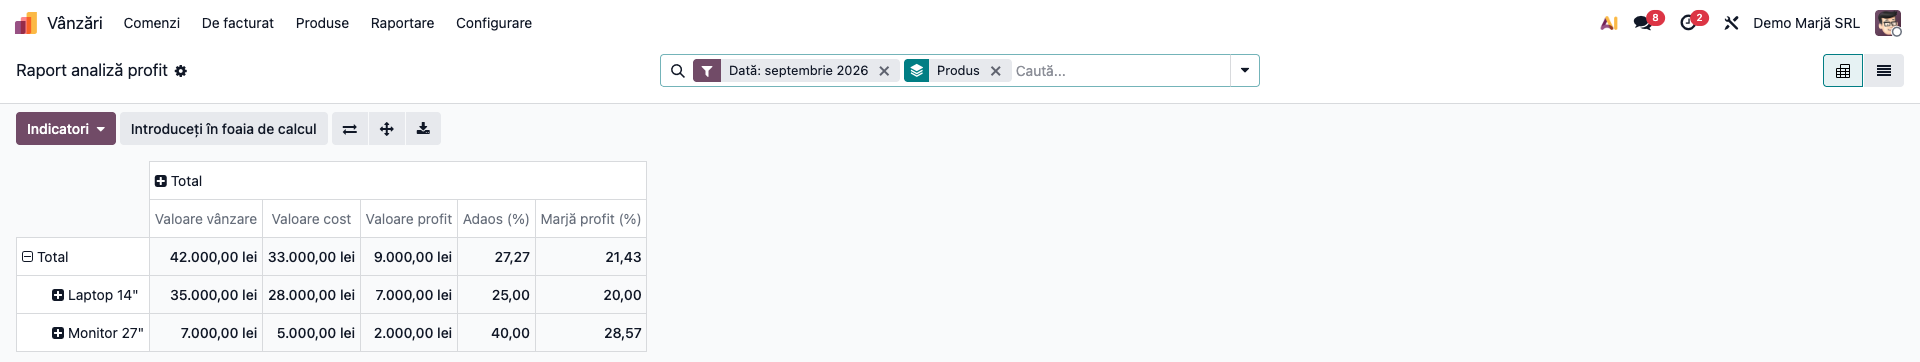
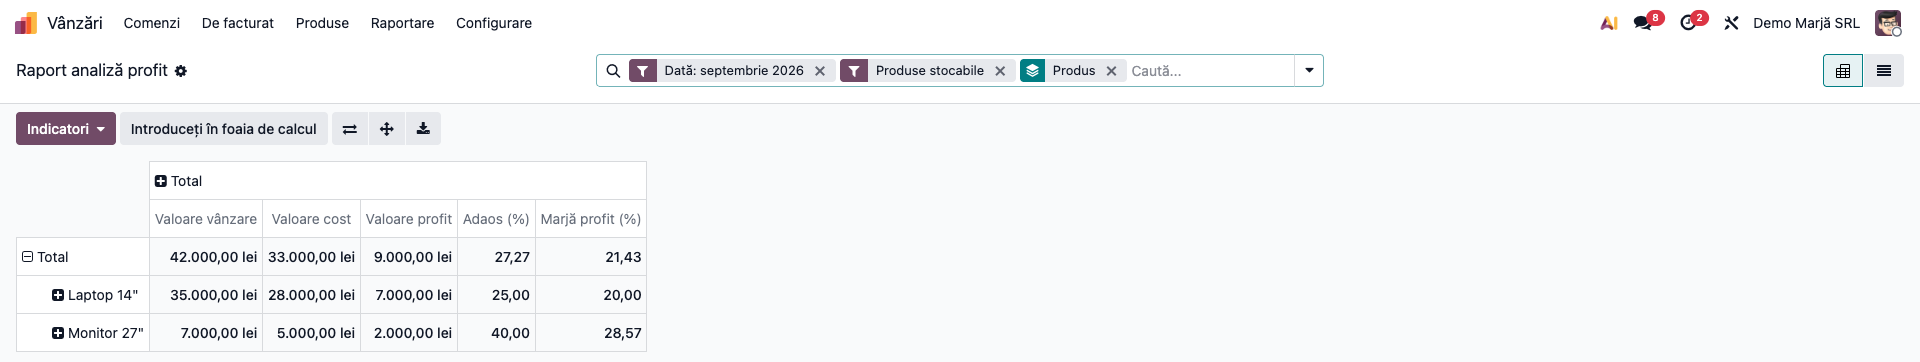
[IMP] deltatech_sale_margin: review of #3860 — POS history and test, consultant sheets, translations
- deltatech_sale_margin_pos: HISTORY entry for 19.0.1.0.1 and a test that the
  POS rows give is_storable for the default filter
- consultant sheets: the Storable Products filter, the purchase price per
  product unit in the report, the wizard converting the product cost to the
  line unit, new checks; the POS sheet removes the filter for the demo products
- ro.po: Storable Products / Track Inventory
- screenshots 04 and 05 regenerated (new filter in the search bar)

Assisted-by: Claude Opus 5.5

Changed region(s): [[0.3125, 0.1519, 0.625, 0.2431], [0.6562, 0.2127, 0.6875, 0.2431]]

diff --git a/deltatech_sale_margin_pos/tests/test_sale_margin_report_pos.py b/deltatech_sale_margin_pos/tests/test_sale_margin_report_pos.py
@@ -51,6 +51,17 @@ class TestSaleMarginReportPos(TestPoSCommon):
         self.assertEqual(row.payment_state, "paid")
         self.assertEqual(row.user_id, order.user_id)
 
+    def test_storable_column(self):
+        """The POS rows say whether the product is storable, for the default filter of the report."""
+        order = self._order(1)
+        self.assertTrue(self.product.is_storable)
+        row = self._rows(pos_order_id=order.id, is_storable=True)
+        self.assertEqual(len(row), 1)
+        self.product.is_storable = False
+        self.env.flush_all()
+        self.assertFalse(self._rows(pos_order_id=order.id, is_storable=True))
+        self.assertEqual(len(self._rows(pos_order_id=order.id, is_storable=False)), 1)
+
     def test_invoiced_order_not_counted_twice(self):
         order = self._order(1, is_invoiced=True)
         self.assertTrue(order.account_move)

diff --git a/deltatech_sale_margin/readme/FISA_CONSULTANT.md b/deltatech_sale_margin/readme/FISA_CONSULTANT.md
@@ -90,7 +90,10 @@ Ambele sunt aduse în **moneda** și în **unitatea de măsură ale liniei** —
 unitatea e esențială.
 
 Pentru costul pe factură și raport: costul liniei de factură (*Preț cost*) vine din **valoarea mișcării
-de livrare** (costul FIFO sau mediu al mărfii ieșite), iar vânzarea din valoarea netă a liniei.
+de livrare** (costul FIFO sau mediu al mărfii ieșite), iar vânzarea din valoarea netă a liniei. Pe
+factură, costul e în **unitatea liniei**; în raport, **Cantitatea** și **Prețul de achiziție** sunt în
+**unitatea produsului** (o linie de 2 Duzini la un cost de 720 lei/duzină apare ca 24 Unități la 60
+lei), iar valorile rămân aceleași.
 
 Date minime pentru demo:
 - un produs cu **cost de achiziție completat** (fără cost nu există comparație și nu se semnalează
@@ -136,6 +139,8 @@ opriți, sau o realitate pe care vreți să o vedeți?"*
 
 Pe **„Blochează vânzarea"**, operatorul din afara grupului de excepție primește o eroare și nu poate
 salva prețul. Pe **„Doar avertisment"**, nimic nu se oprește.
+
+![Politica „Vânzare sub cost" și pragul de marjă, alese de consultant](screenshots/01_setari_politica.png)
 
 ### Pasul 2 — Operatorul vinde sub cost și vede semnalul
 
@@ -193,7 +198,18 @@ utilizatorii din grupul **Vânzare sub prețul de achiziție**.
 ### Pasul 4 — Analiza profitului
 
 Accesați **Vânzări → Raportare → Raport analiză profit**. Se deschide ca tabel pivot, pe luna trecută,
-grupat pe produs. Liniile se pot regrupa pe agent, categorie, client, factură, jurnal sau lună.
+cu filtrul **Produse stocabile** pus și grupat pe produs. Liniile se pot regrupa pe agent, categorie,
+client, factură, jurnal sau lună.
+
+Filtrul **Produse stocabile** (bifa *Urmărește stocul* pe produs) lasă în raport doar marfa: serviciile,
+consumabilele fără stoc, transportul și liniile de discount fără produs nu apar până nu scoateți filtrul
+(×) din bara de căutare. Pe demo, ambele produse sunt stocabile, deci cifrele sunt aceleași cu sau fără
+filtru.
+
+**Cantitatea** și **Prețul de achiziție** sunt în **unitatea produsului**, chiar dacă linia s-a vândut în
+altă unitate: 2 Duzini cu un cost de 720 lei/duzină apar ca 24 Unități la 60 lei, cu aceeași Valoare
+cost, 1.440 lei. Un preț de achiziție corectat în raport se scrie pe factură convertit înapoi în
+unitatea liniei (50 lei/unitate devine 600 lei/duzină).
 
 1. **Găsiți pe ecran** — pe fiecare rând, **Valoare vânzare**, **Valoare cost**, **Valoare profit**,
    **Adaos (%)** și **Marjă profit (%)**.
@@ -223,8 +239,8 @@ ca rândurile să apară una câte una, cu produsul și factura, selectați lini
 Actualizare preț achiziție**:
 - **Preț din livrare** (implicit) — recalculează costul din livrare, iar dacă nu există, ia costul
   produsului;
-- fără bifă — ia direct costul actual al produsului, **fără conversia unității de măsură** și și pe
-  notele de credit (vezi limitările): folosiți varianta implicită;
+- fără bifă — ia direct costul actual al produsului, convertit în unitatea liniei, și pe notele de
+  credit (vezi limitările): folosiți varianta implicită;
 - **Pentru toate liniile** — aplică recalcularea pe **toate** liniile din raport, din toate perioadele,
   nu doar pe cele selectate.
 
@@ -289,6 +305,10 @@ cost.
 - [ ] Preț cost pe factură = costul real al mărfii livrate (2.800,00 pe demo), nu prețul de listă.
 - [ ] În raport, pe demo: total vânzare 42.000,00, cost 33.000,00, profit 9.000,00; adaos total 27,27 %,
       calculat din sume, nu media rândurilor.
+- [ ] O linie de **2 Duzini** dintr-un produs pe Unități, cu cost 60 lei/unitate: în raport, 24,00
+      Unități, preț de achiziție 60,00, valoare cost 1.440,00 — aceeași valoare ca pe factură (2 × 720).
+- [ ] Raportul se deschide cu filtrul **Produse stocabile**: o factură cu un serviciu nu apare; scoțând
+      filtrul, apare.
 - [ ] O notă de credit **cu retur** are costul mărfii returnate; o **stornare** a facturii are costul
       facturii (profit net 0); una cu **prețul modificat** are cost 0.
 - [ ] Un utilizator cu rolul **Utilizator** pe Vânzări, fără grupul de cost, nu vede meniul *Raport
@@ -331,7 +351,7 @@ conturi RO:
 | 1 | `screenshots/01_setari_politica.png` | **Setări → Vânzări → Prețuri**: politica „Vânzare sub cost" pe „Doar avertisment" și „Limită de marjă (%)" |
 | 2 | `screenshots/02_comanda_sub_cost.png` | Comandă cu 10 Cutii 12 kg la 30 lei/cutie peste un cost de 36 lei/cutie: bannerul, rândul marcat, marja −60,00 lei (−20%), butonul **Confirmă** activ |
 | 3 | `screenshots/03_factura_pret_cost.png` | Factura client, cu **Preț cost** 2.800,00 pe linia de Laptop |
-| 4 | `screenshots/04_raport_profit.png` | **Raport analiză profit** (pivot): vânzare, cost, profit, adaos și marjă pe produs |
+| 4 | `screenshots/04_raport_profit.png` | **Raport analiză profit** (pivot, cu filtrul **Produse stocabile**): vânzare, cost, profit, adaos și marjă pe produs |
 | 5 | `screenshots/05_actualizare_pret_achizitie.png` | Asistentul **Actualizare preț achiziție**, deschis din lista raportului |
 
 Nota din chatter de la confirmare **nu** are captură proprie: chatterul cade în afara cadrului capturat,
@@ -365,9 +385,8 @@ că pe totaluri ambele se recalculează din sume.
 - **Pe facturile fără livrare**, recalcularea (zilnică sau din asistent, cu **Preț din livrare**) pune
   costul **curent** al produsului și suprascrie astfel, în primele 7 zile, un cost corectat manual.
   Recalcularea zilnică nu scrie niciodată costul 0.
-- **Recalcularea fără bifa „Preț din livrare”** ia costul produsului în unitatea lui de bază (pe o
-  linie vândută pe ambalaj, de exemplu Cutie 12 kg, scrie costul pe kg) și îl pune și pe notele de
-  credit fără retur, care ar trebui să aibă cost 0.
+- **Recalcularea fără bifa „Preț din livrare”** ia costul curent al produsului (convertit în unitatea
+  liniei) și îl pune și pe notele de credit fără retur, care ar trebui să aibă cost 0.
 - **Corectarea manuală a costului sau a agentului** în raport e posibilă doar cu
   `deltatech_sale_commission` (din formularul liniei); agentul se scrie atunci pe **toată** factura.
 - **La actualizarea de la o versiune anterioară, pe o bază fără `deltatech_sale_commission`**, costul

diff --git a/deltatech_sale_margin_pos/readme/FISA_CONSULTANT.md b/deltatech_sale_margin_pos/readme/FISA_CONSULTANT.md
@@ -93,8 +93,10 @@ Nu e nimic de făcut în plus: bonul intră singur în raport, cu linia lui.
 
 ### Pasul 2 — Raportul de profit, cu vânzările de la casă
 
-Accesați **Vânzări → Raportare → Raport analiză profit** și grupați rândurile pe **Jurnal**, apoi pe
-**Produs** (în pivot, pe antetul *Total*).
+Accesați **Vânzări → Raportare → Raport analiză profit**, scoateți din bara de căutare filtrul
+**Produse stocabile** (pe demo, cafeaua și espressorul nu au bifa *Urmărește stocul*, deci filtrul le-ar
+ascunde) și grupați rândurile pe **Jurnal**, apoi pe **Produs** (în pivot, pe antetul *Total*). Rândurile
+bonurilor urmează filtrul ca facturile: un produs stocabil vândut la casă rămâne vizibil cu filtrul pus.
 
 1. **Găsiți pe ecran** — sub jurnalul de vânzări sunt facturile, sub jurnalul comenzilor casei (pe demo,
    *Casa Magazin Centru*) sunt bonurile nefacturate; pe fiecare rând, **Valoare vânzare**, **Valoare cost**, **Valoare
@@ -117,7 +119,7 @@ curent al produsului.
 ### Pasul 3 — Doar vânzările de la casă
 
 În același raport, treceți pe vizualizarea **listă**, scoateți din bara de căutare grupările implicite
-(*Agent de vânzări*, *Produs*) și filtrul de dată, apoi alegeți filtrul **Vânzări POS** (meniul
+(*Agent de vânzări*, *Produs*), filtrul de dată și filtrul **Produse stocabile**, apoi alegeți filtrul **Vânzări POS** (meniul
 filtrelor). Filtrul **Facturi** arată doar liniile de factură. Rândurile bonurilor au starea plății
 *Plătit*, deci intră la filtrul **Plătit**.
 

diff --git a/deltatech_sale_margin_pos/readme/HISTORY.md b/deltatech_sale_margin_pos/readme/HISTORY.md
@@ -1,5 +1,13 @@
 # Changelog
 
+## 19.0.1.0.1 (2026-10-28)
+
+- The POS rows give the *Track Inventory* column of the product, used by the *Storable Products*
+  filter of the report (on by default since `deltatech_sale_margin` 19.0.1.3.4); without it the
+  POS sales of storable products were hidden by that filter.
+- Consultant sheet: the *Storable Products* filter is removed in the steps that show the demo,
+  whose products are not storable.
+
 ## 19.0.1.0.0 (2026-10-22)
 
 - Point of Sale orders without an invoice in the sale margin report, with the cost computed
